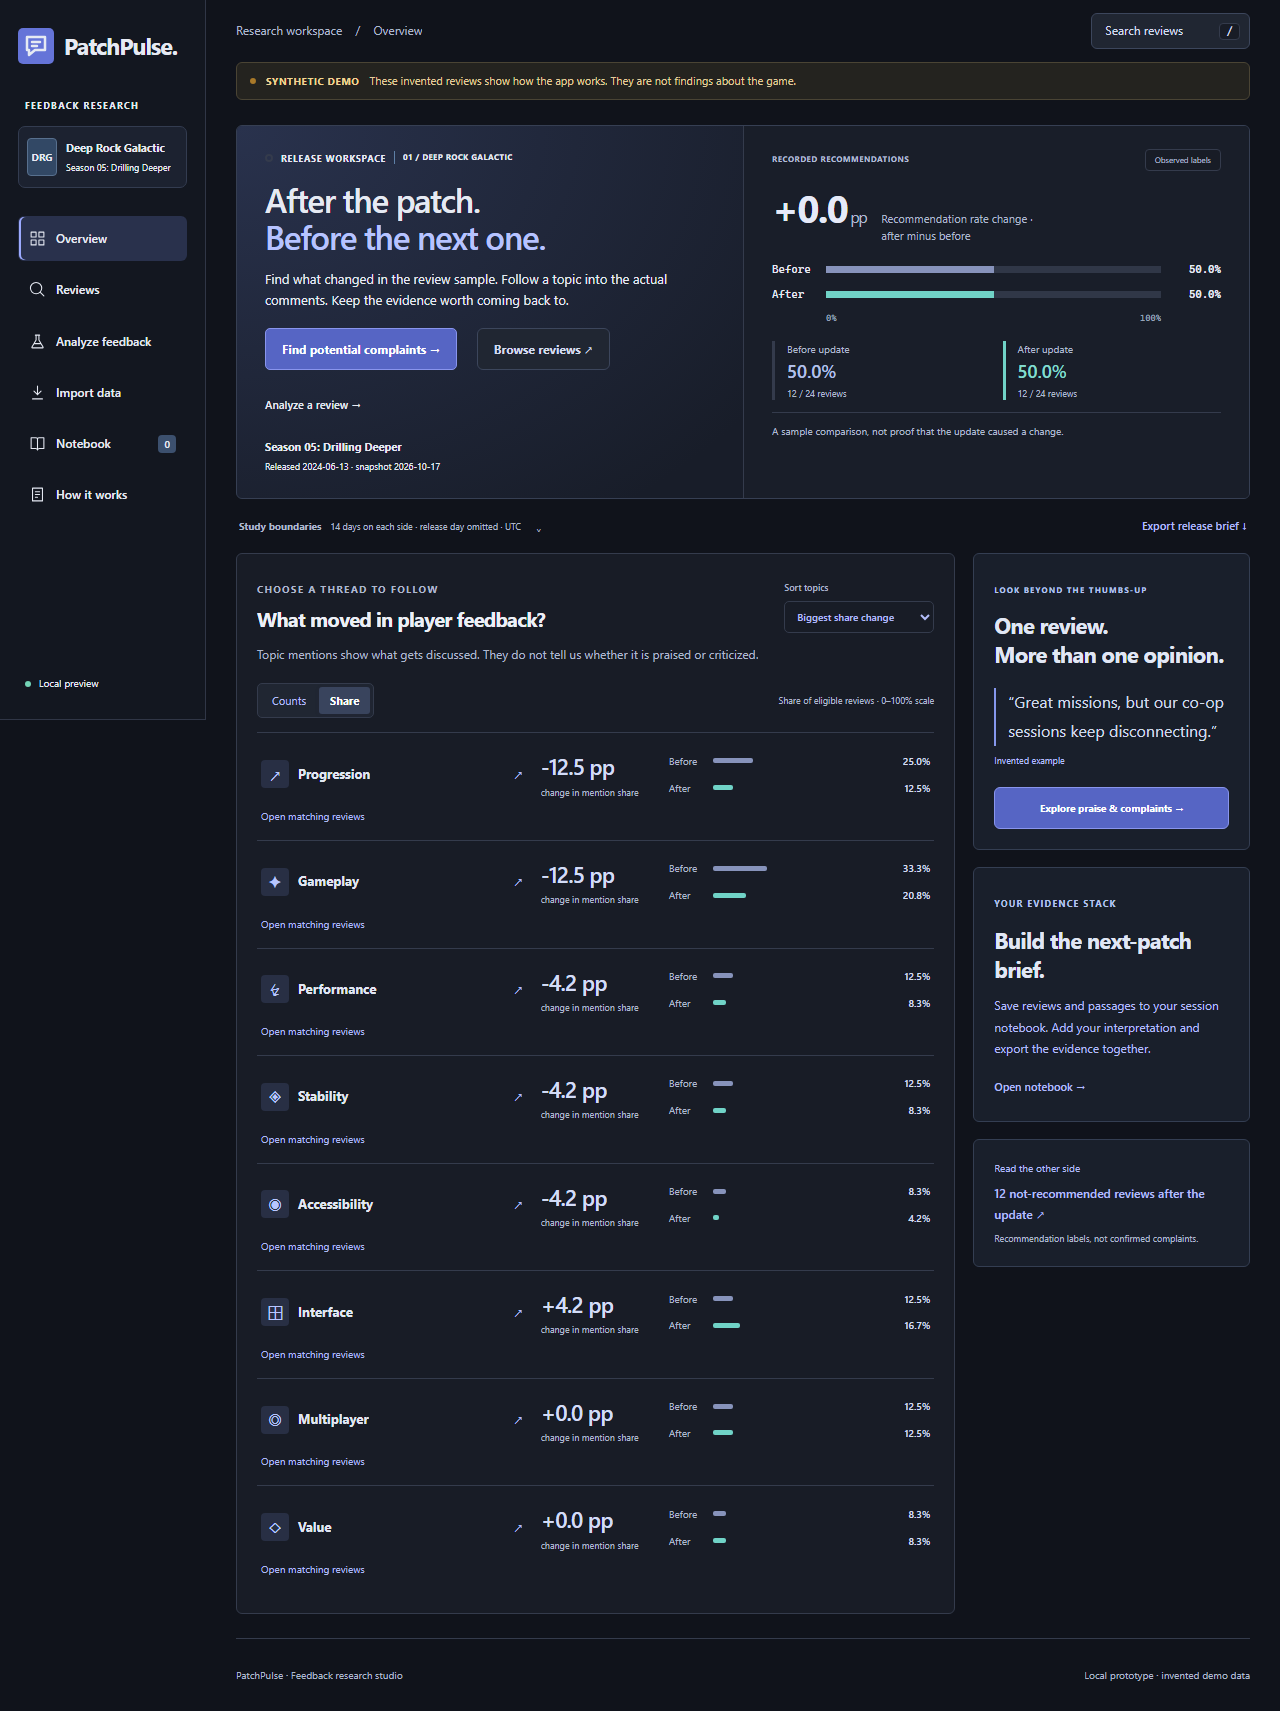
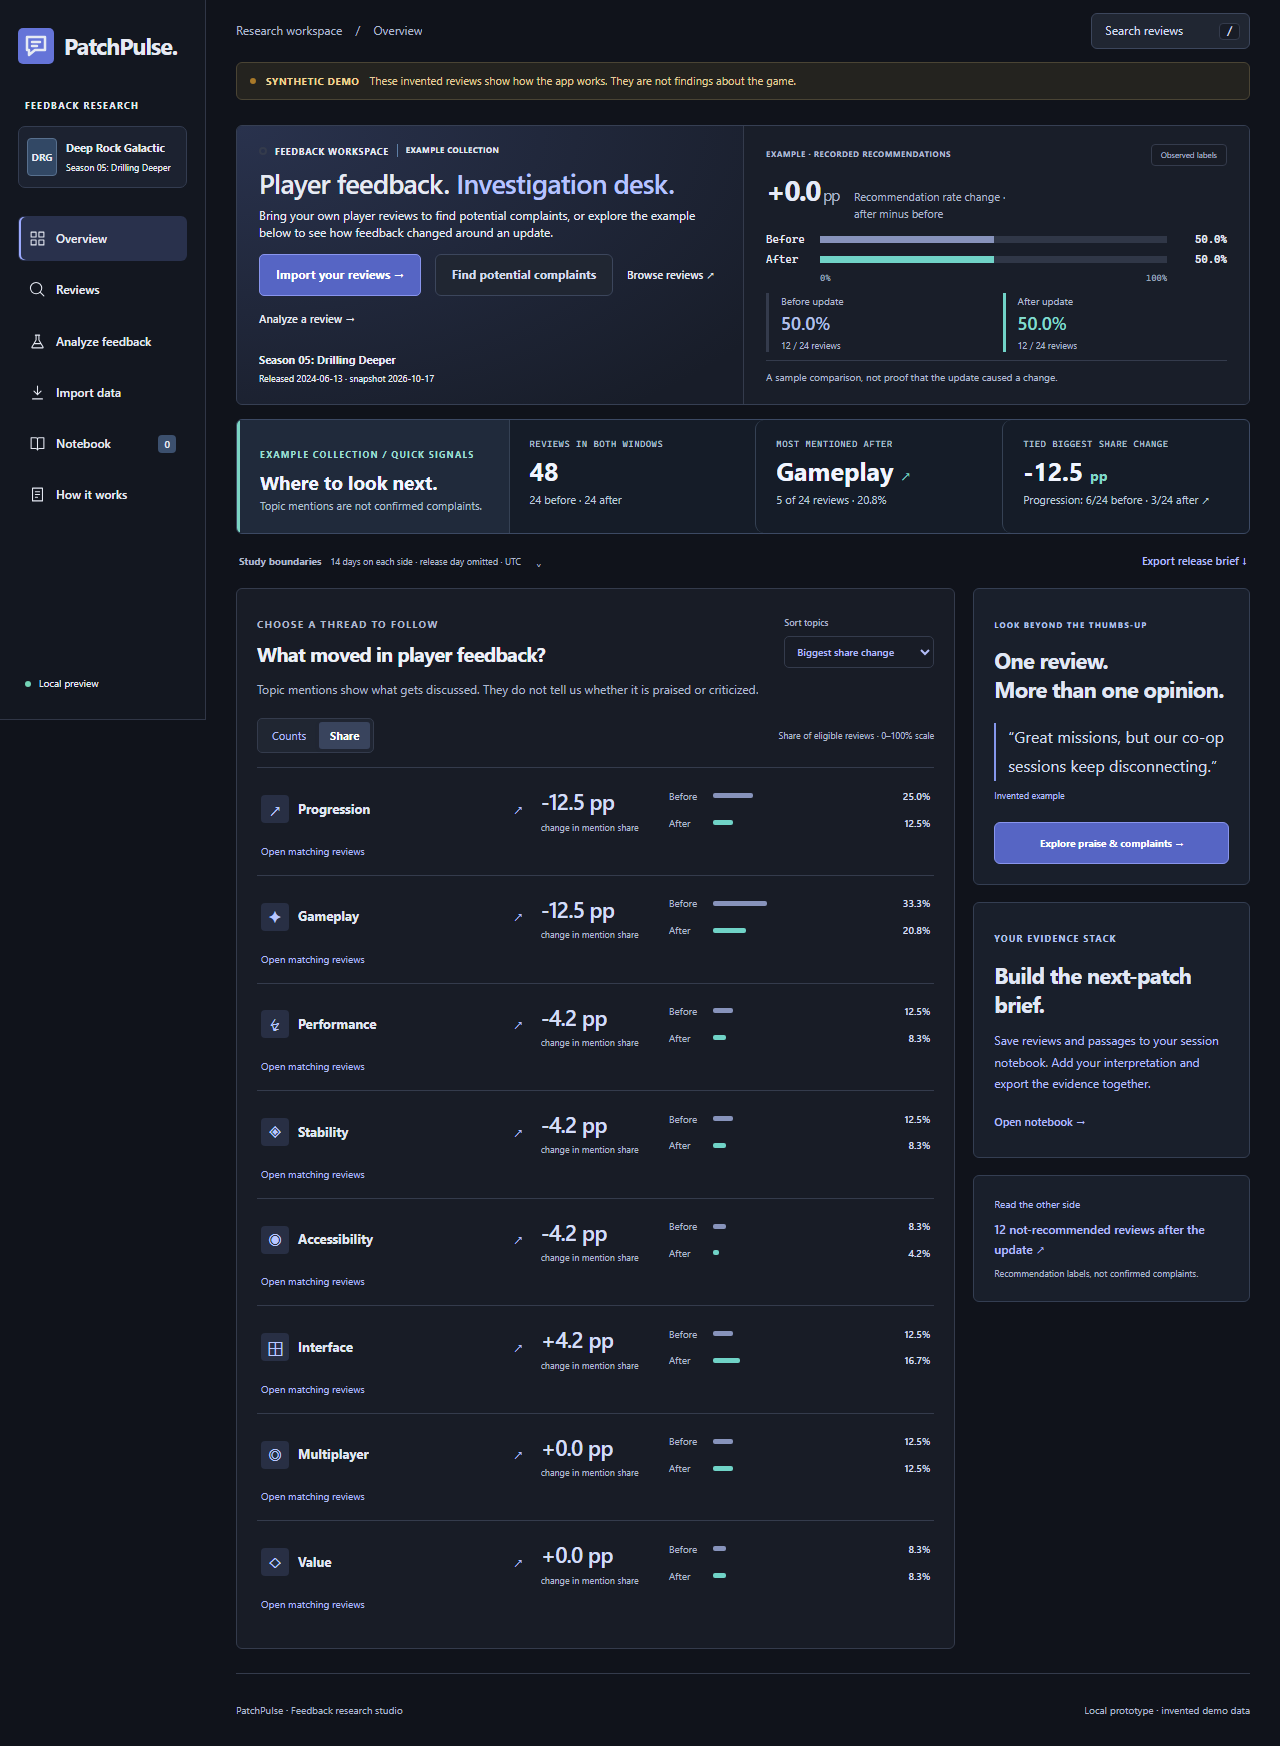
Surface actionable feedback signals on overview

diff --git a/web/src/UpdateDesk.tsx b/web/src/UpdateDesk.tsx
@@ -37,15 +37,17 @@ export function UpdateDesk({
   onInspect,
   onBrowse,
   onComplaints,
+  onImport,
   onAnalyze,
   onNotebook,
   onBrief,
 }: {
   study: Study;
   notesCount: number;
-  onInspect: (topic: string) => void;
+  onInspect: (topic: string, period?: "after") => void;
   onBrowse: (negative?: boolean) => void;
   onComplaints: () => void;
+  onImport: () => void;
   onAnalyze: () => void;
   onNotebook: () => void;
   onBrief: () => void;
@@ -72,26 +74,30 @@ export function UpdateDesk({
           a.aspect.localeCompare(b.aspect),
     );
   const countMax = Math.max(1, ...topics.flatMap((t) => [t.before, t.after]));
+  const mostDiscussed = [...topics].filter((t) => t.after > 0).sort((a, b) => b.after - a.after || a.aspect.localeCompare(b.aspect))[0];
+  const biggestShift = [...topics].filter((t) => t.delta !== null).sort((a, b) => Math.abs(b.delta ?? 0) - Math.abs(a.delta ?? 0) || a.aspect.localeCompare(b.aspect))[0];
+  const tiedMost = mostDiscussed && topics.filter((t) => t.after === mostDiscussed.after).length > 1;
+  const tiedShift = biggestShift && topics.filter((t) => t.delta !== null && Math.abs(Math.abs(t.delta) - Math.abs(biggestShift.delta!)) < 1e-9).length > 1;
   return (
     <div className="update-desk">
       <section className="release-story">
         <div className="release-narrative">
           <div className="story-kicker">
             <span className="tiny-orbit" />
-            RELEASE WORKSPACE <span>01 / DEEP ROCK GALACTIC</span>
+            FEEDBACK WORKSPACE <span>{study.mode === "synthetic" ? "EXAMPLE COLLECTION" : "LOCAL STUDY"}</span>
           </div>
           <h1>
-            After the patch.
-            <br />
-            <em>Before the next one.</em>
+            Player feedback. {" "}
+            <em>Investigation desk.</em>
           </h1>
           <p>
-            Find what changed in the review sample. Follow a topic into the
-            actual comments. Keep the evidence worth coming back to.
+            Bring your own player reviews to find potential complaints, or explore
+            the example below to see how feedback changed around an update.
           </p>
           <div className="story-actions">
-            <button className="primary" onClick={onComplaints}>Find potential complaints →</button>
-            <button className="secondary" onClick={() => onBrowse()}>
+            <button className="primary" onClick={onImport}>Import your reviews →</button>
+            <button className="secondary" onClick={onComplaints}>Find potential complaints</button>
+            <button className="text-button" onClick={() => onBrowse()}>
               Browse reviews ↗
             </button>
             <button className="text-button" onClick={onAnalyze}>
@@ -107,7 +113,7 @@ export function UpdateDesk({
         </div>
         <div className="release-pulse">
           <div className="pulse-heading">
-            <span>RECORDED RECOMMENDATIONS</span>
+            <span>{study.mode === "synthetic" ? "EXAMPLE · " : "STUDY · "}RECORDED RECOMMENDATIONS</span>
             <span className="small-tag">Observed labels</span>
           </div>
           <div className="comparison-readout">
@@ -138,6 +144,12 @@ export function UpdateDesk({
             A sample comparison, not proof that the update caused a change.
           </p>
         </div>
+      </section>
+      <section className="signal-strip" aria-labelledby="signal-title">
+        <div className="signal-intro"><span className="eyebrow">{study.mode === "synthetic" ? "EXAMPLE COLLECTION" : "LOCAL STUDY"} / QUICK SIGNALS</span><h2 id="signal-title">Where to look next.</h2><p>Topic mentions are not confirmed complaints.</p></div>
+        <div className="signal-stat"><span>REVIEWS IN BOTH WINDOWS</span><strong>{(before.count + after.count).toLocaleString()}</strong><small>{before.count.toLocaleString()} before · {after.count.toLocaleString()} after</small></div>
+        {mostDiscussed && after.count > 0 && <button className="signal-stat signal-link" onClick={() => onInspect(mostDiscussed.aspect, "after")}><span>{tiedMost ? "TIED MOST MENTIONED AFTER" : "MOST MENTIONED AFTER"}</span><strong>{mostDiscussed.aspect} <i>↗</i></strong><small>{mostDiscussed.after.toLocaleString()} of {after.count.toLocaleString()} reviews · {share(mostDiscussed.after, after.count).toFixed(1)}%</small></button>}
+        {biggestShift && <button className="signal-stat signal-link" onClick={() => onInspect(biggestShift.aspect)}><span>{biggestShift.delta === 0 ? "TOPIC SHARE CHANGE" : tiedShift ? "TIED BIGGEST SHARE CHANGE" : "BIGGEST SHARE CHANGE"}</span><strong>{biggestShift.delta! >= 0 ? "+" : ""}{biggestShift.delta!.toFixed(1)} <i>pp</i></strong><small>{biggestShift.aspect}: {biggestShift.before}/{before.count} before · {biggestShift.after}/{after.count} after ↗</small></button>}
       </section>
       <section className="desk-breadcrumbs" aria-label="Comparison windows">
         <details className="study-picker">
@@ -266,7 +278,7 @@ export function UpdateDesk({
           <div className="next-card coral-card">
             <span className="eyebrow">LOOK BEYOND THE THUMBS-UP</span>
             <h2>
-              One review.
+              One review. {" "}
               <br />
               More than one opinion.
             </h2>

diff --git a/web/src/style.css b/web/src/style.css
@@ -3315,6 +3315,35 @@ input::placeholder,textarea::placeholder { color: #96a3ba; }
 .candidate-list p { color: #e5c2cd; font-size: 13px; }
 .candidate-list p strong { color: #f3cfda; }
 .candidate-list blockquote { margin: 0; padding-left: 15px; border-left: 2px solid #6f84ca; color: #e5ebf8; font-size: 14px; }
+
+/* A compact, evidence-led scan before the full topic explorer. */
+.signal-strip { display:grid; grid-template-columns:minmax(190px,1.1fr) repeat(3,minmax(0,1fr)); margin-top:14px; border:1px solid #3c4963; border-radius:6px; background:#151c28; overflow:hidden; }
+.signal-intro,.signal-stat { padding:19px 20px; min-width:0; }
+.signal-intro { background:#202a3b; border-left:3px solid #7cd5c4; }
+.signal-intro .eyebrow { color:#9eddd1; font-size:9px; }
+.signal-intro h2 { margin:8px 0 4px; color:#f0f4ff; font-size:19px; line-height:1.15; }
+.signal-intro p { margin:0; color:#b2c0d4; font-size:11px; line-height:1.45; }
+.signal-stat { display:flex; flex-direction:column; align-items:flex-start; gap:8px; background:transparent; border:0; border-left:1px solid #354154; text-align:left; color:#eaf0fb; }
+.signal-stat > span { color:#b2c1d5; font:9px var(--mono); letter-spacing:.06em; }
+.signal-stat strong { color:#f1f5ff; font-size:25px; line-height:1.1; font-variant-numeric:tabular-nums; overflow-wrap:anywhere; }
+.signal-stat strong i { color:#81d8c7; font-size:14px; font-style:normal; }
+.signal-stat small { color:#bdc9da; font-size:11px; line-height:1.4; }
+.signal-link { cursor:pointer; }
+.signal-link:hover { background:#242e40; box-shadow:inset 0 -2px #82d8c7; }
+.signal-link:focus-visible { outline:2px solid #a9f0e0; outline-offset:-3px; }
+@media(max-width:1000px) { .signal-strip { grid-template-columns:repeat(2,minmax(0,1fr)); } .signal-stat:nth-child(3) { border-left:0; } .signal-stat:nth-child(n+3) { border-top:1px solid #354154; } }
+@media(max-width:520px) { .signal-intro,.signal-stat { padding:15px; } .signal-stat strong { font-size:21px; } }
+.release-narrative, .release-pulse { padding:18px 22px; }
+.release-narrative h1 { font-size:clamp(23px,2.1vw,29px); line-height:1.15; letter-spacing:-.6px; margin:10px 0 8px; }
+.release-narrative > p { font-size:12px; line-height:1.45; margin-bottom:12px; }
+.story-actions { gap:8px 14px; }
+.release-caption { padding-top:12px; }
+.comparison-readout { margin:10px 0; }
+.comparison-readout > strong { font-size:28px; }
+.rate-row { margin:7px 0; }
+.pulse-periods { margin-top:10px; }
+.pulse-caution { margin-top:8px; padding-top:8px; }
+@media(max-width:700px) { .release-narrative,.release-pulse { padding:16px; } .release-narrative h1 { font-size:25px; } }
 .import-results details { margin-top: 18px; color: #b4c1d7; font-size: 13px; }
 @media(max-width:800px) { .import-grid { grid-template-columns: 1fr; } }
 @media(max-width:700px) { .results-heading, .candidate-list article { display: grid; grid-template-columns: 1fr; } .candidate-list { gap: 5px; } .import-card, .import-results { padding: 18px; } }

diff --git a/web/tests/dashboard-signals.spec.ts b/web/tests/dashboard-signals.spec.ts
@@ -1,0 +1,47 @@
+import { test, expect } from "@playwright/test";
+
+test("signals use each window's denominator and lead to scoped evidence", async ({ page }) => {
+  await page.route("**/api/case-studies/drg-season-05", async (route) => {
+    const response = await route.fetch();
+    const study = await response.json();
+    study.periods.before.count = 100;
+    study.periods.after.count = 20;
+    study.mentions = [
+      { aspect: "Gameplay", before: 20, after: 8 },
+      { aspect: "Multiplayer", before: 40, after: 4 },
+    ];
+    await route.fulfill({ response, json: study });
+  });
+  await page.goto("/");
+  const signals = page.locator(".signal-strip");
+  await expect(signals).toContainText("120");
+  await expect(signals).toContainText("8 of 20 reviews · 40.0%");
+  await expect(signals).toContainText("TIED BIGGEST SHARE CHANGE");
+  await expect(signals).toContainText("+20.0");
+  await signals.getByRole("button", { name: /MOST MENTIONED AFTER/ }).focus();
+  await page.keyboard.press("Enter");
+  await expect(page.getByLabel("Topic mention")).toHaveValue("Gameplay");
+  await expect(page.getByRole("combobox", { name: "Window", exact: true })).toHaveValue("after");
+});
+
+test("the overview opens the review import workflow", async ({ page }) => {
+  await page.goto("/");
+  await page.getByRole("button", { name: "Import your reviews" }).click();
+  await expect(page.getByRole("heading", { name: "Turn an export into an investigation queue." })).toBeVisible();
+});
+
+test("empty windows do not manufacture a leading topic or share change", async ({ page }) => {
+  await page.route("**/api/case-studies/drg-season-05", async (route) => {
+    const response = await route.fetch();
+    const study = await response.json();
+    study.periods.before.count = 0;
+    study.periods.after.count = 0;
+    study.mentions = [];
+    await route.fulfill({ response, json: study });
+  });
+  await page.setViewportSize({ width: 320, height: 900 });
+  await page.goto("/");
+  await expect(page.locator(".signal-strip")).toContainText("0 before · 0 after");
+  await expect(page.locator(".signal-strip button")).toHaveCount(0);
+  expect(await page.evaluate(() => document.documentElement.scrollWidth <= innerWidth)).toBeTruthy();
+});

diff --git a/web/tests/app.spec.ts b/web/tests/app.spec.ts
@@ -6,7 +6,7 @@ test("case, evidence filters, safe text, model, and brief export", async ({
   page.on("pageerror", (e) => errors.push(e.message));
   await page.goto("/");
   await expect(
-    page.getByRole("heading", { name: /After the patch/ }),
+    page.getByRole("heading", { name: /Player feedback/ }),
   ).toBeVisible();
   await expect(page.getByText("SYNTHETIC DEMO", { exact: true })).toBeVisible();
   await page.getByRole("button", { name: "Browse reviews" }).click();
@@ -72,7 +72,7 @@ test("capture desktop and mobile screens and keyboard focus", async ({
 }, testInfo) => {
   await page.goto("/");
   await expect(
-    page.getByRole("heading", { name: /After the patch/ }),
+    page.getByRole("heading", { name: /Player feedback/ }),
   ).toBeVisible();
   await page.screenshot({
     path: `../assets/${testInfo.project.name}-case.png`,

diff --git a/web/src/main.tsx b/web/src/main.tsx
@@ -735,11 +735,13 @@ function App() {
               <UpdateDesk
                 study={data}
                 notesCount={notes.length}
-                onInspect={(topic) => {
+                onInspect={(topic, period) => {
                   clearFilters();
+                  if (period) setPeriod(period);
                   selectAspect(topic);
                 }}
                 onComplaints={() => {clearFilters(); setPeriod("after"); setSuggestion("complaint"); setTab("Reviews");}}
+                onImport={() => setTab("Import data")}
                 onBrowse={browseReviews}
                 onAnalyze={() => {
                   setReturnToReview(false);

diff --git a/docs/verification.md b/docs/verification.md
@@ -64,6 +64,10 @@ Replaced circular recommendation graphics with aligned zero-to-100-percent bars 
 
 The current batch endpoint returns all matching candidates within the 200-review limit. The import workspace blocks oversized batches rather than silently dropping reviews, validates common CSV errors, and clears stale results when the mapping changes. Rules v4 add handling for negated kick events and curly-apostrophe join failures. The authored challenge suite remains a development check; human-reviewed real-world complaint evaluation is still pending. CI checks the public example collection and does not establish model accuracy.
 
+## Dashboard analysis review — November 4, 2026
+
+The overview now links directly to review import and computes collection volume, most-mentioned after-update topic, and largest topic-share change from the active case. Signals show scope and denominators, identify ties, and link to matching reviews; the after-update shortcut selects the after window. Desktop and mobile browser checks cover the shortcuts, unequal window sizes, ties and empty data. The included collection remains invented, and topic mentions do not establish complaint rates.
+
 ## Local import and complaint-rule update — 2026-10-18
 
 Added a browser-parsed CSV/JSON import workspace. A user maps a text column, optionally carries a review ID, and submits at most 200 reviews to the loopback API for transient rule-based candidate retrieval. The API never writes imported text to disk, returns exact source spans, limits candidates to 100 returned records, and exports a clearly provisional review queue. The batch request is bounded to 2 MB; the browser limits selected files to 1.5 MB.

diff --git a/README.md b/README.md
@@ -62,6 +62,7 @@ Import analyzes reviews in the **Import data** workspace. Overview and Reviews c
 **A working local feedback analysis tool with ongoing evaluation.**
 
 - The included example collection contains 48 invented reviews. The app runs without Steam access, a GPU, or paid AI services after dependency installation, and accepts your own review exports.
+- The overview highlights review volume, the most-mentioned topic after the update, and the largest change in topic share. Select a topic signal to inspect matching reviews in the example collection.
 - A separate private study examines Deep Rock Galactic's Season 05 update. Public reports contain aggregate results; source review text, identifiers, and trained models stay out of this repository.
 - Recommendation prediction is a separate model experiment. It never replaces a review's known recommendation in the before-and-after statistics.
 - Complaint/praise rules now handle repair negation and preserve uncertainty for questions, wishes, and ambiguous topics. A [reproducible development suite](docs/aspect_sentiment.md#version-4-development-checks-and-measured-changes) records improvements and remaining failures; these authored checks do not establish real-world accuracy.
